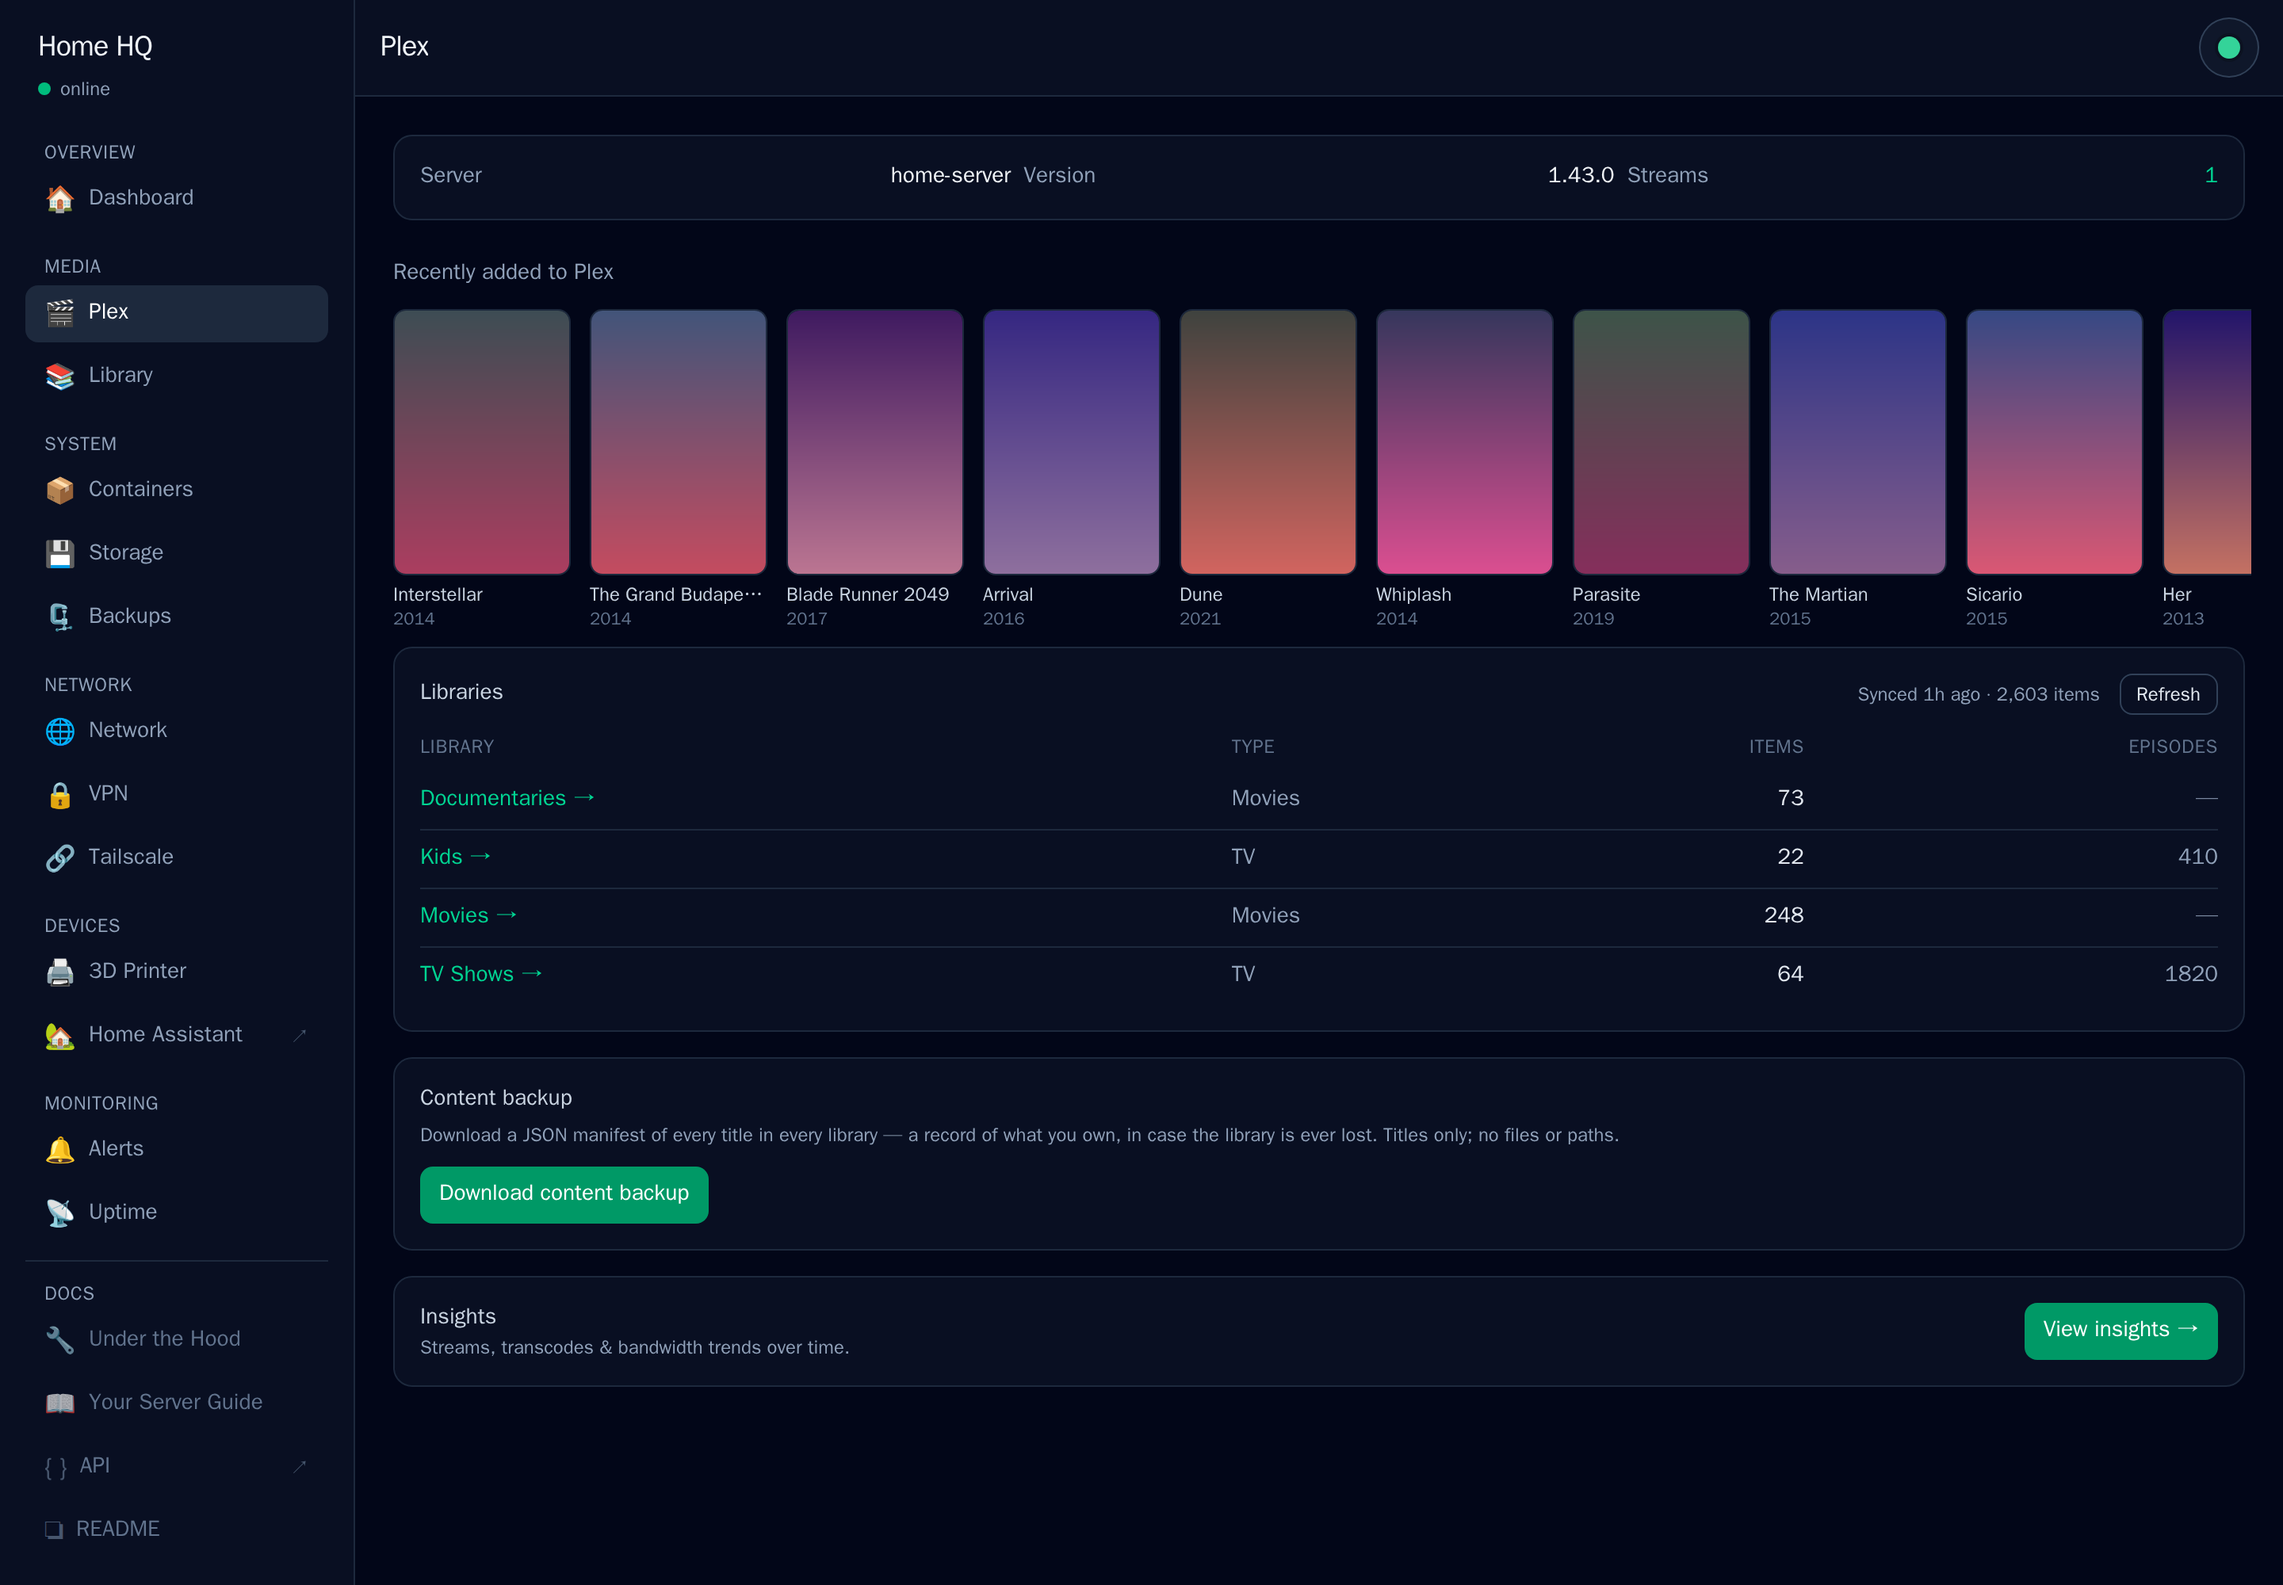
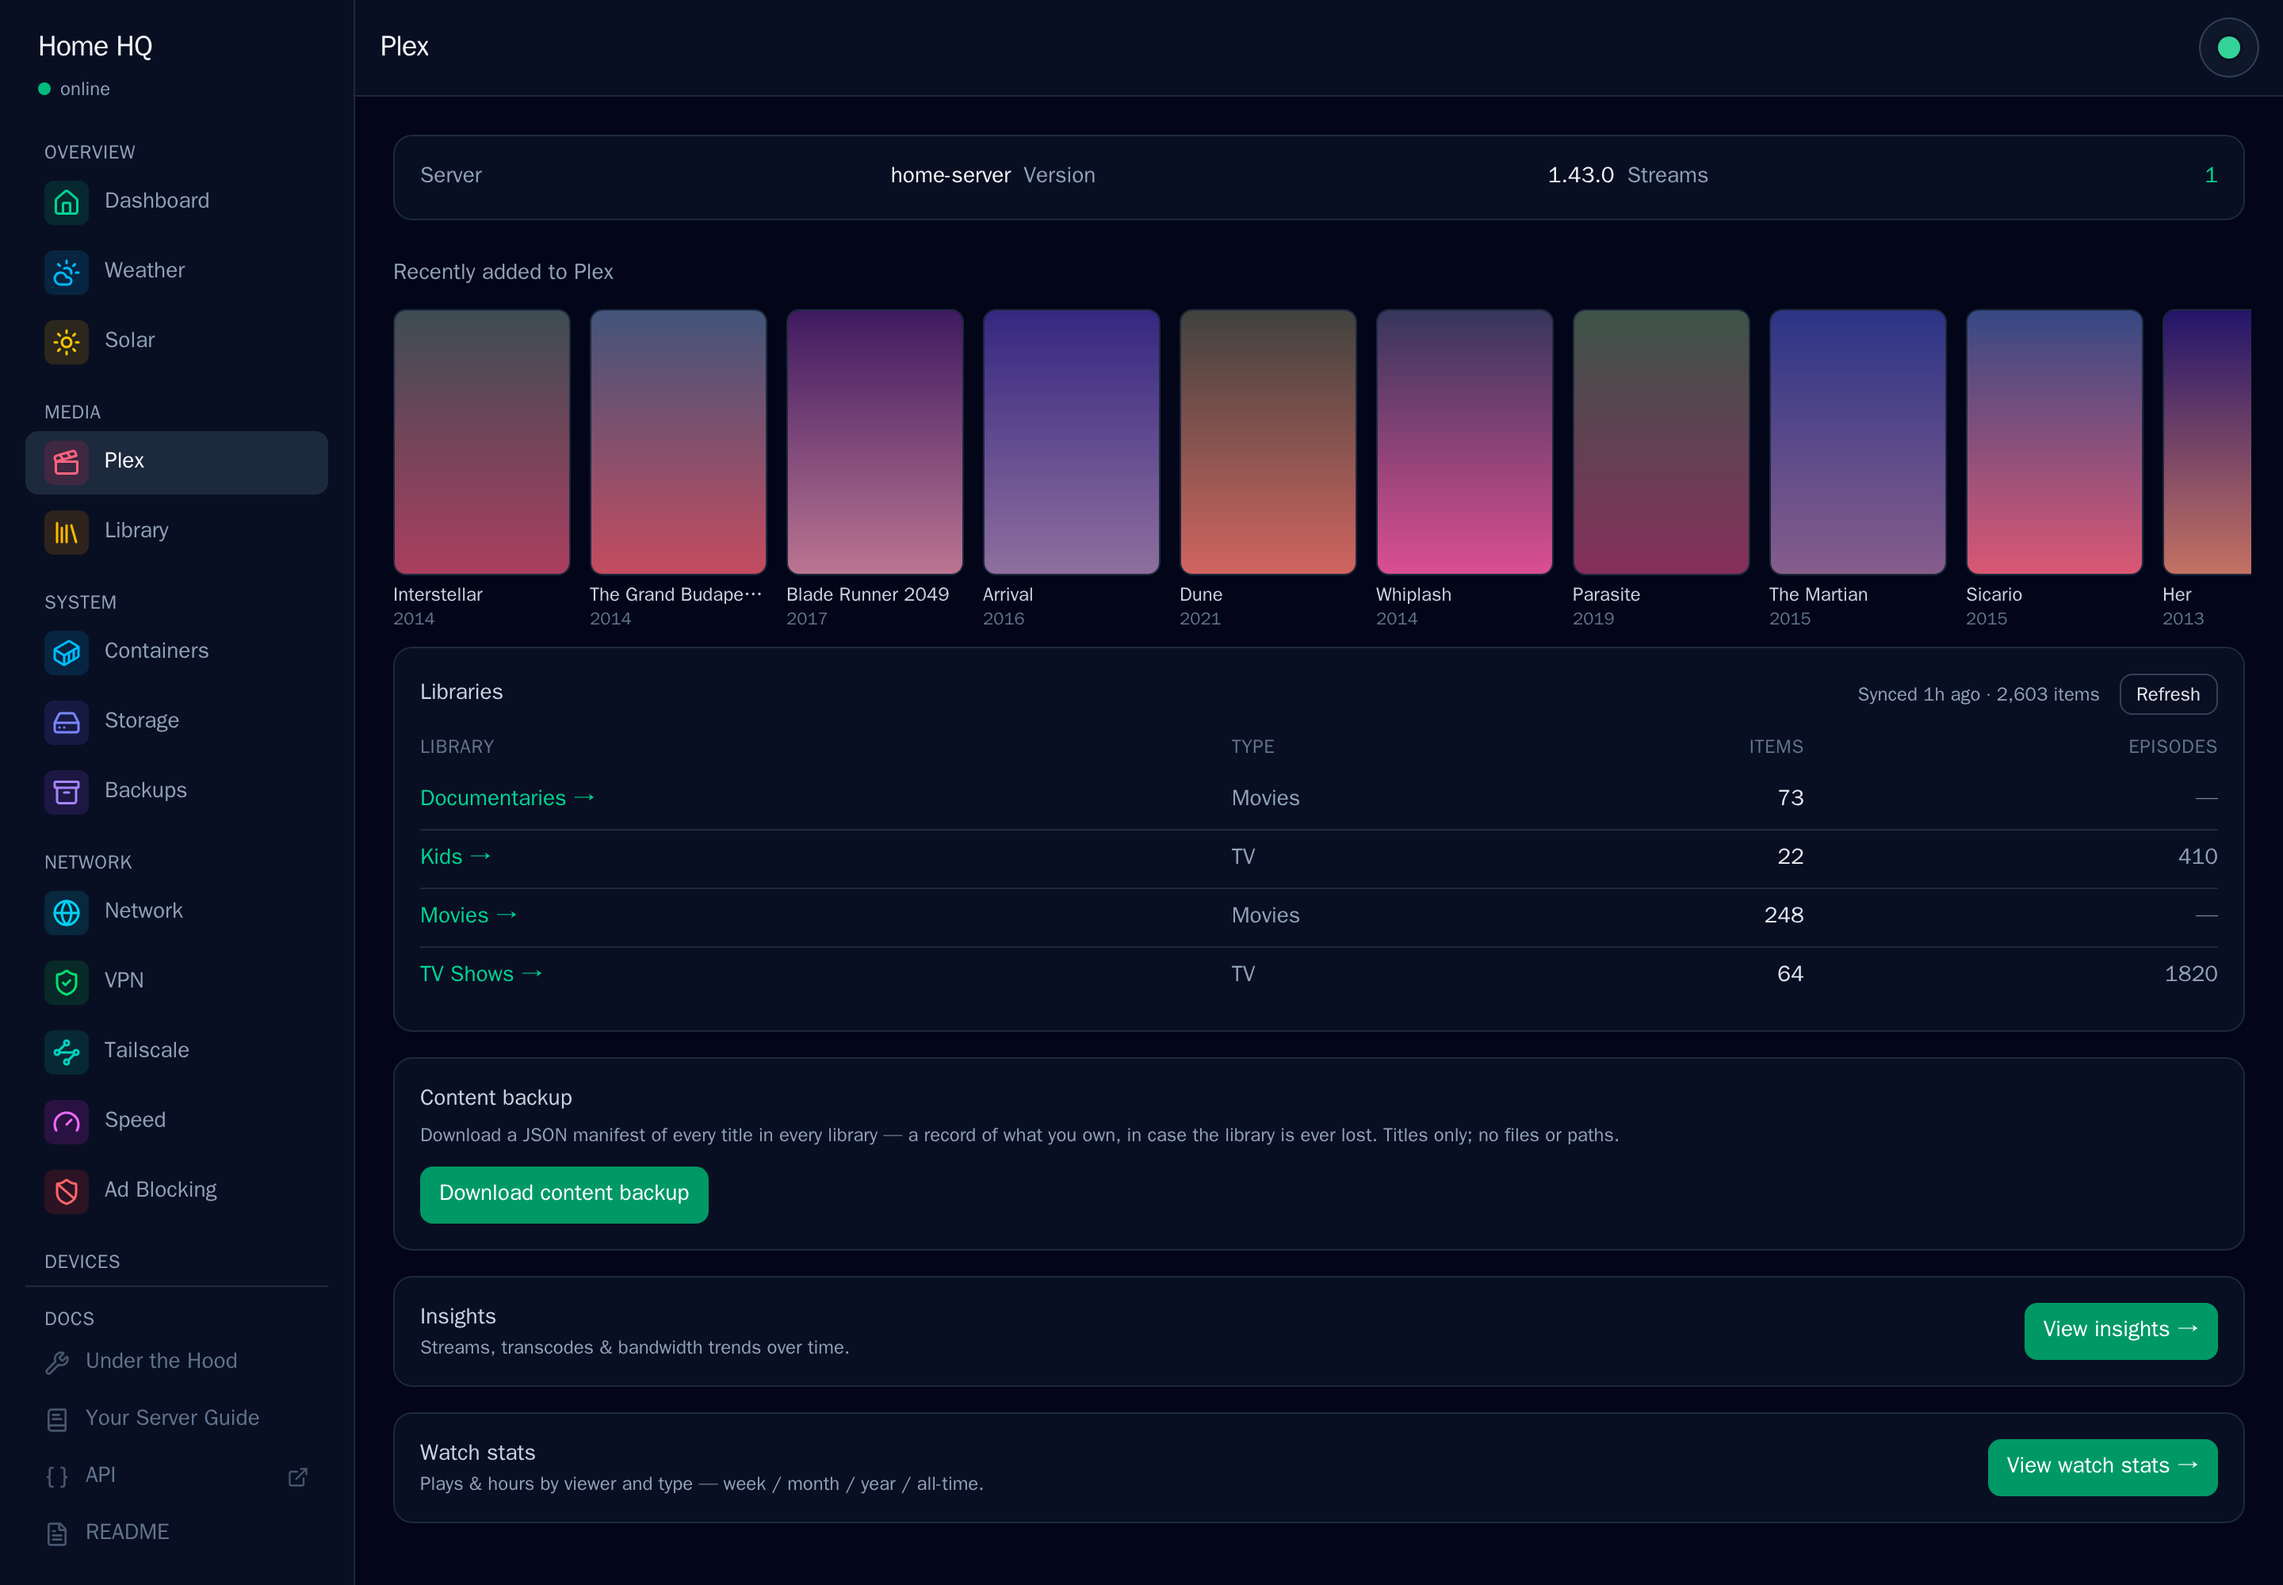
README: refresh screenshots, add Solar + Weather, fix blank Storage shot
Promote the showpiece modules — Dashboard, Solar, Weather, 3D printer,
Storage — to full-width hero shots; keep the rest in the "More modules"
grid and the looping theme-cycle gif.

- Add Solar (back-lit production gauge + animated energy flow) and
  Weather (sun-arc, conditions, 5-day forecast) to the gallery.
- The Storage shot was rendering blank — it now shows the full
  capacity/projection, RAID, SMART, and database page.
- Every shot regenerated against generic sample data (no real host,
  location, media, or personal information).

diff --git a/README.md b/README.md
@@ -63,6 +63,14 @@ anyone evaluating or installing it); **Under the Hood** explains the *software*
 
 ![Home HQ dashboard](docs/img/dashboard.png)
 
+### Solar — live energy flow & a back-lit production gauge
+
+![Solar module](docs/img/solar.png)
+
+### Weather — sunrise→sunset arc, conditions & a 5-day forecast
+
+![Weather module](docs/img/weather.png)
+
 ### 3D printer — live telemetry, controls & chamber camera
 
 ![3D Printer module](docs/img/printer.png)
